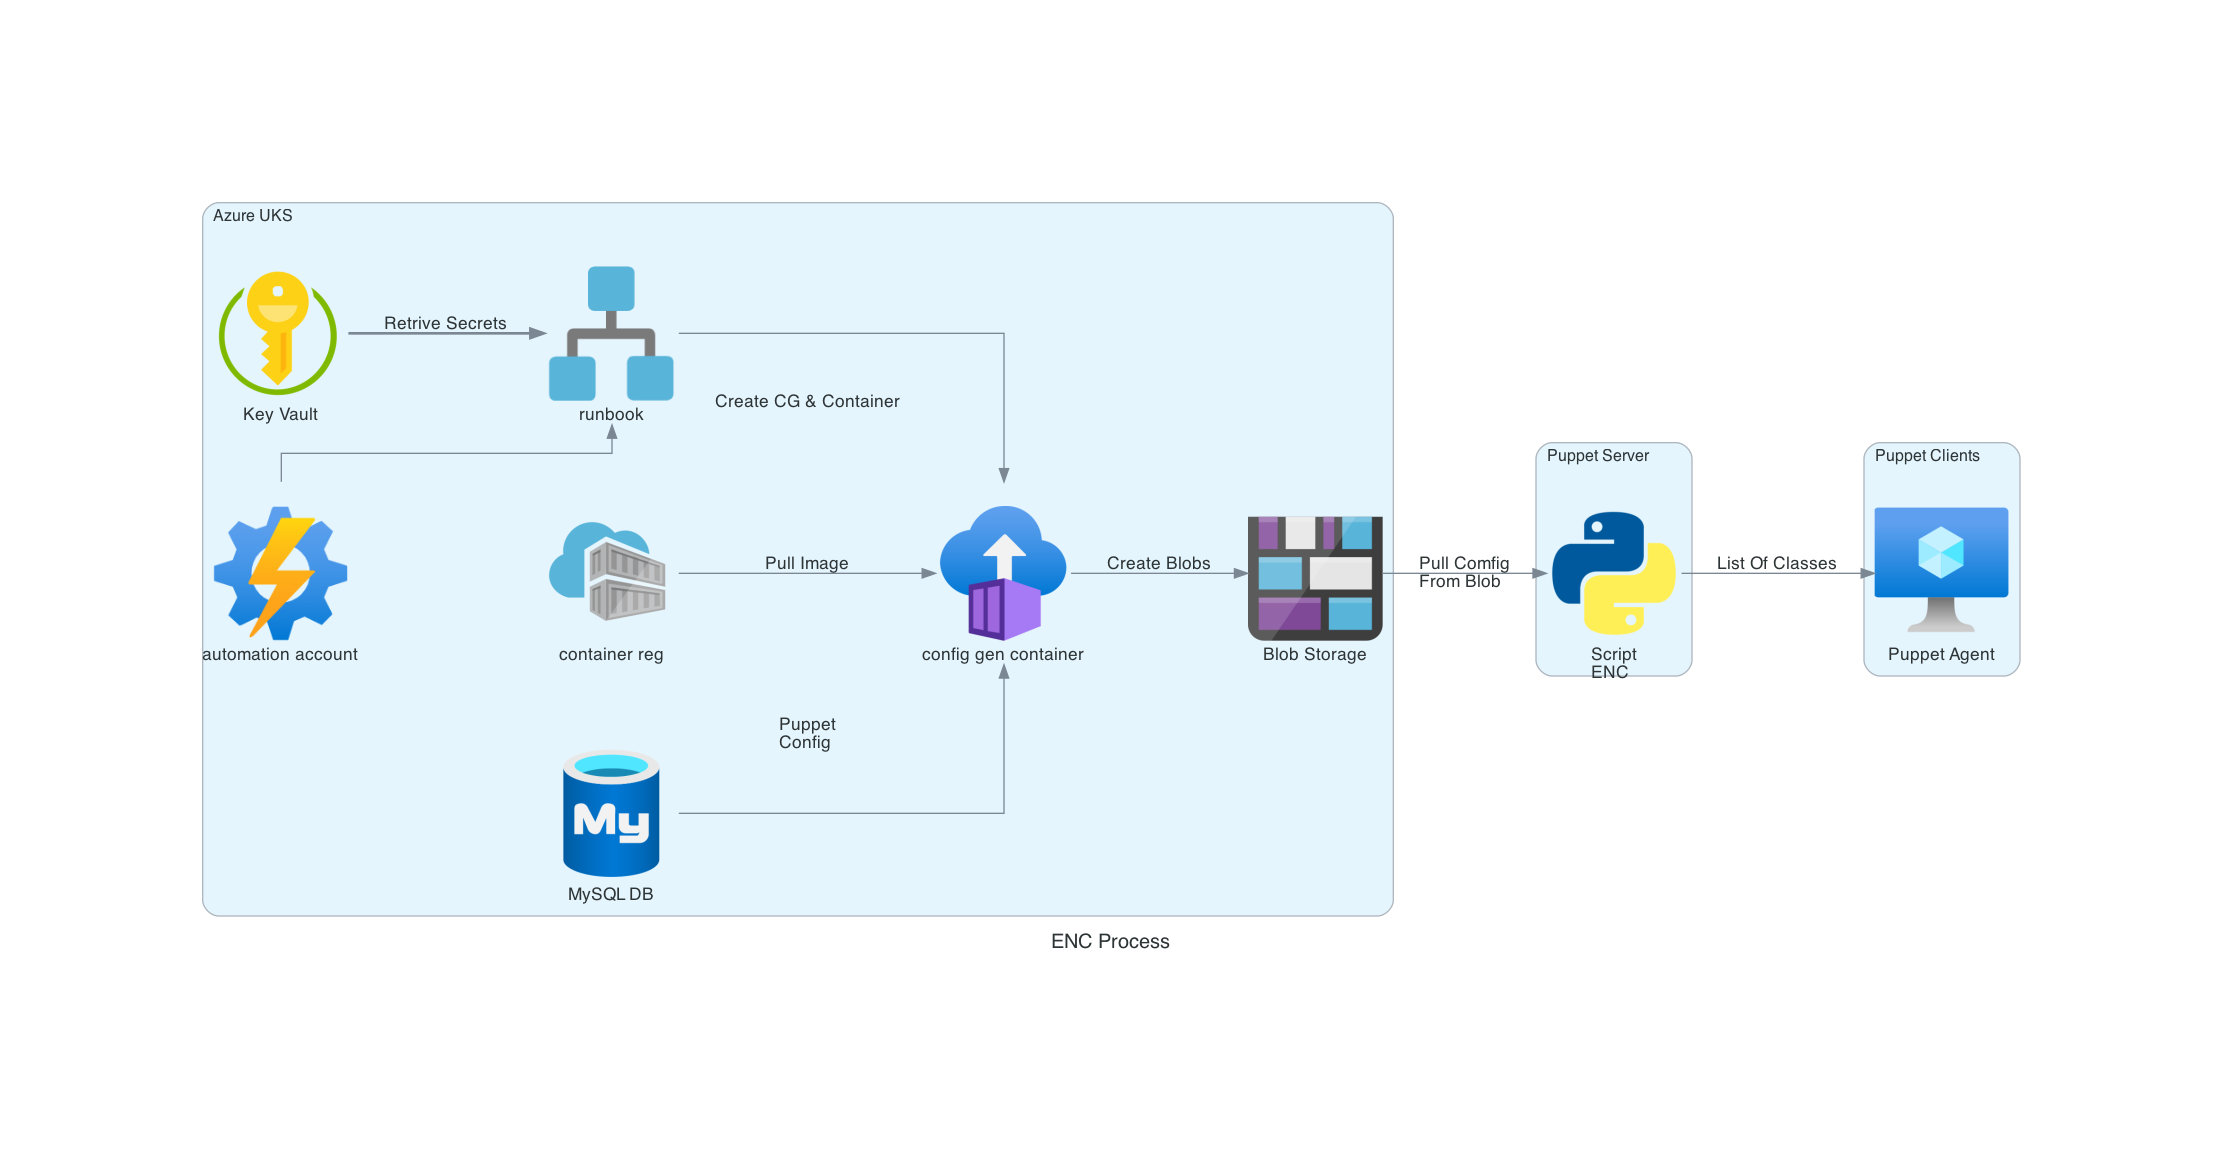
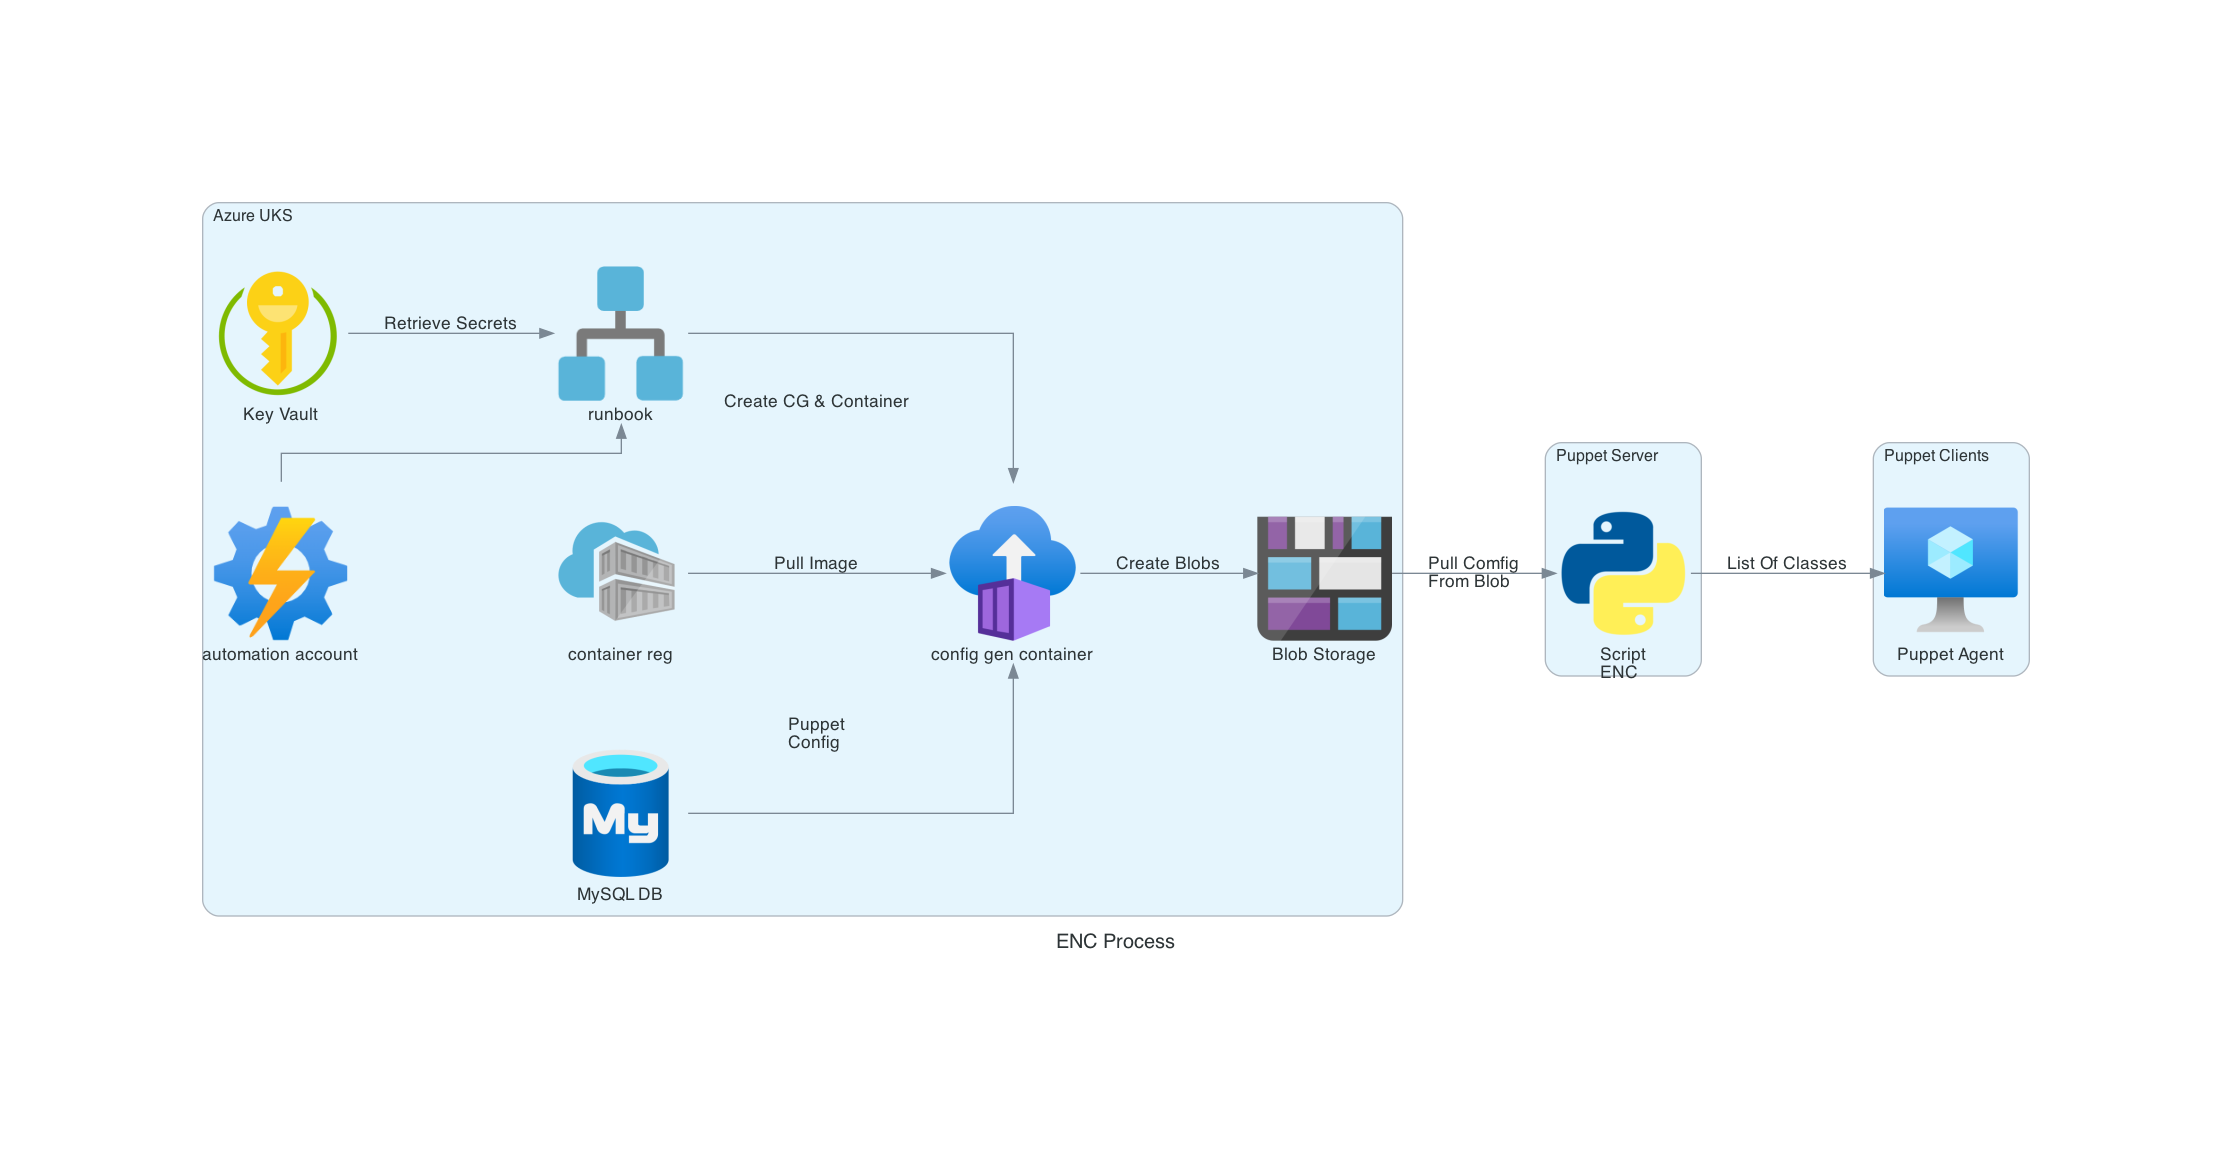
Update

diff --git a/enc-process/enc-process.py b/enc-process/enc-process.py
@@ -27,7 +27,7 @@ with Diagram("ENC Process", show=False):
 
 
     automation_account >> runbook
-    keyvault >> Edge(label='Retrive Secrets', style='bold') >> runbook
+    keyvault >> Edge(label='Retrieve Secrets') >> runbook
     container_reg >> Edge(label='Pull Image') >> config_gen_container
     runbook >> Edge(label='Create CG & Container') >> config_gen_container
 
